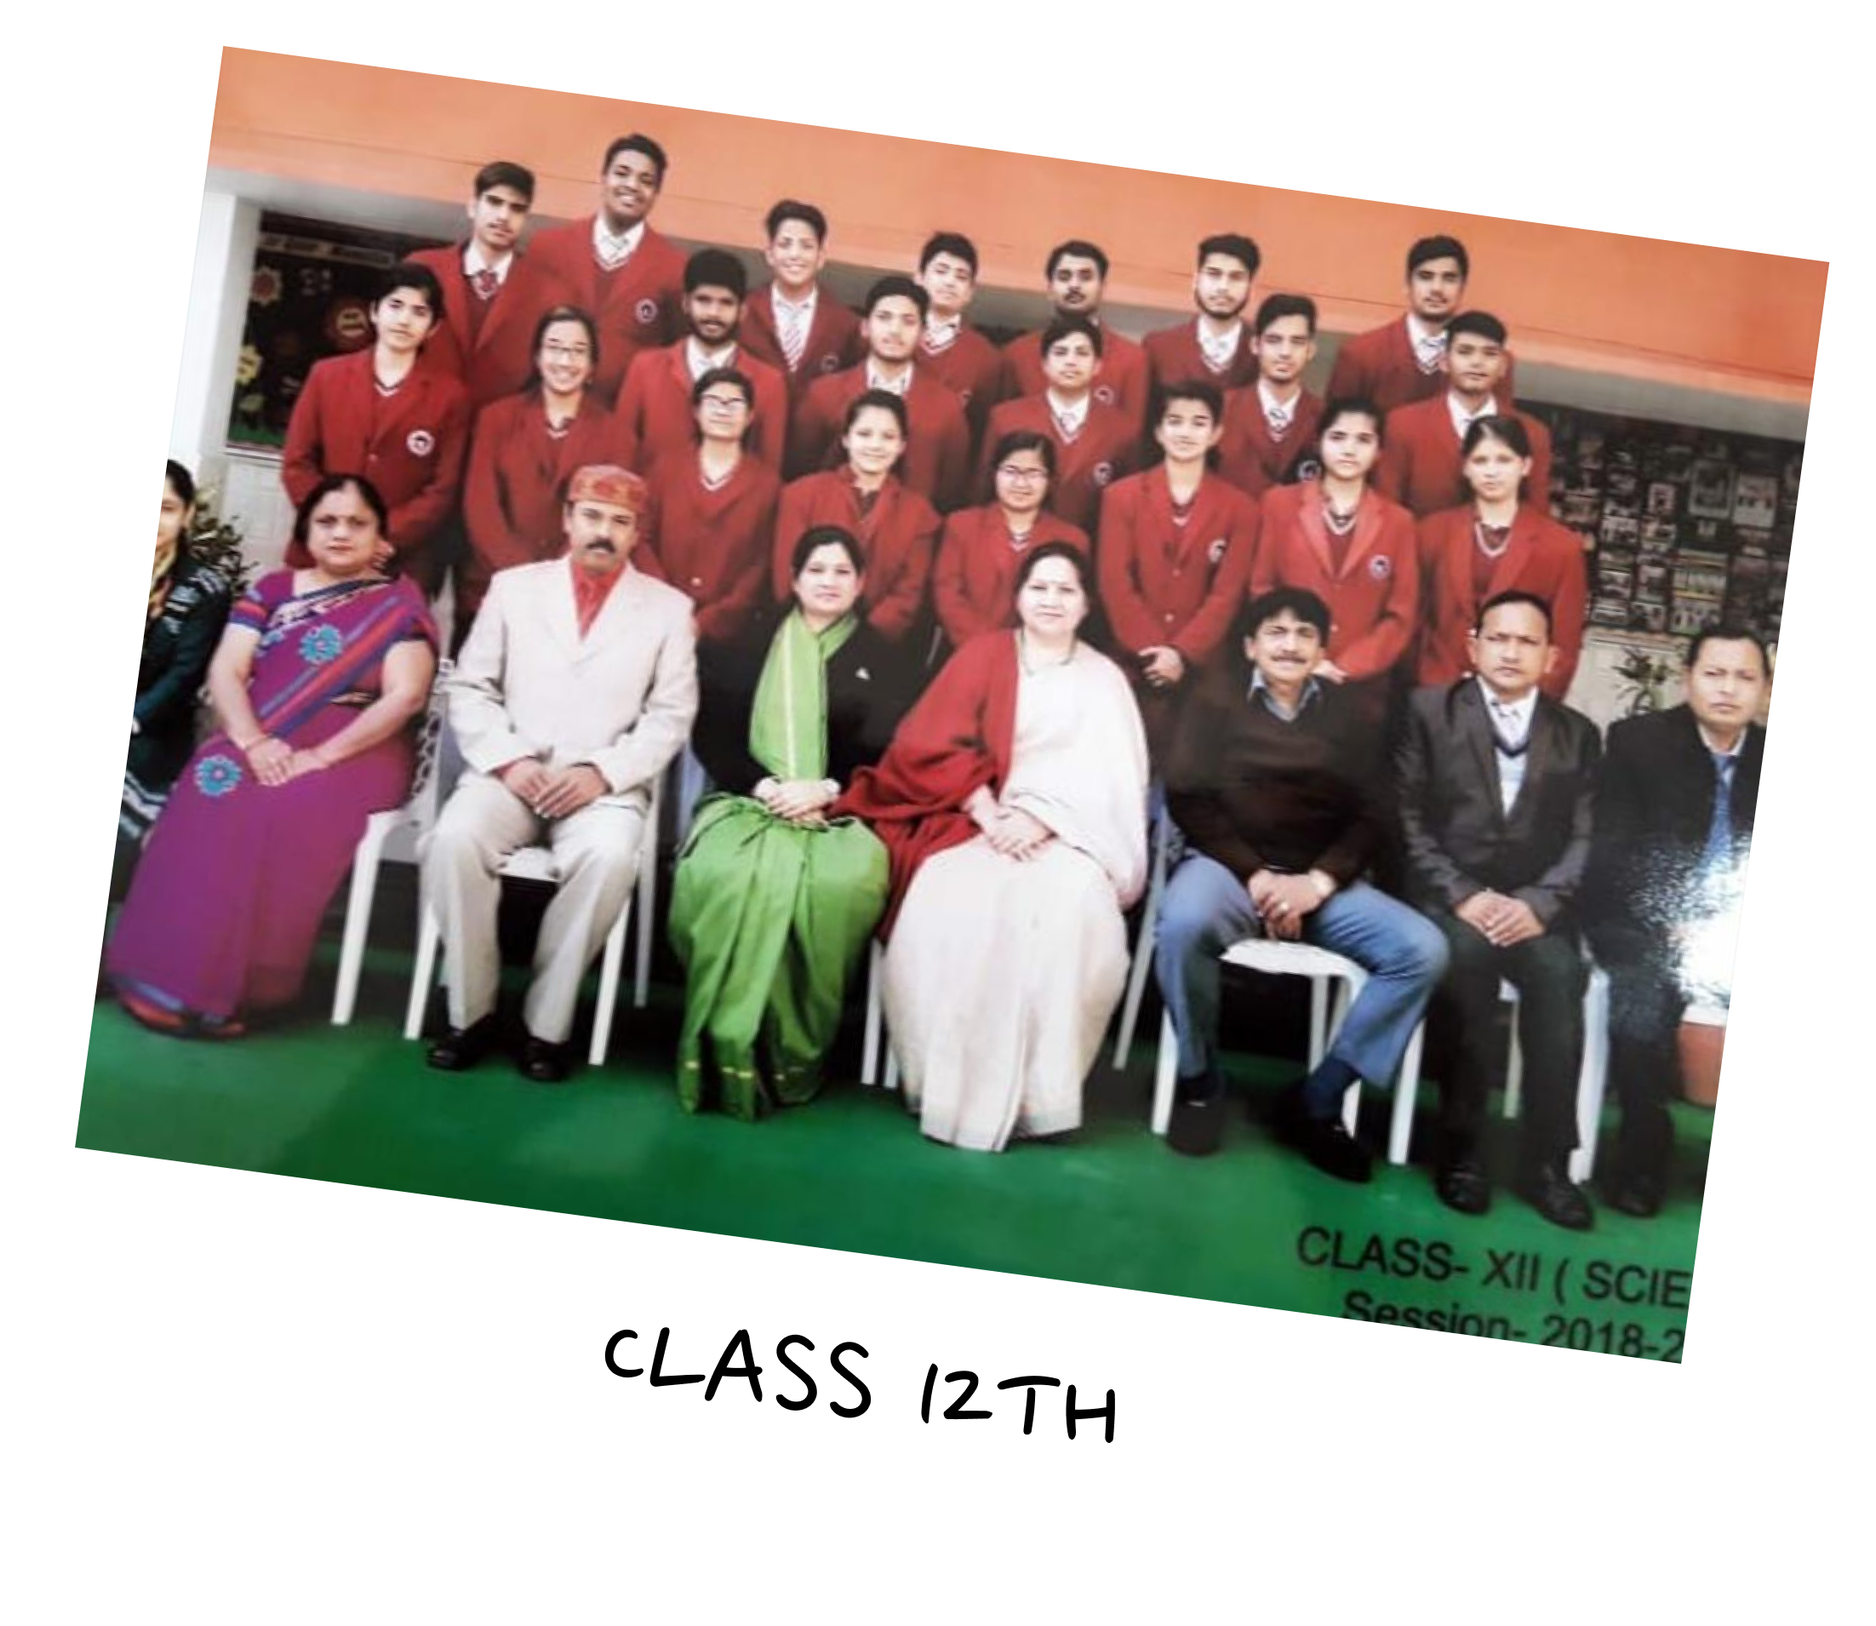
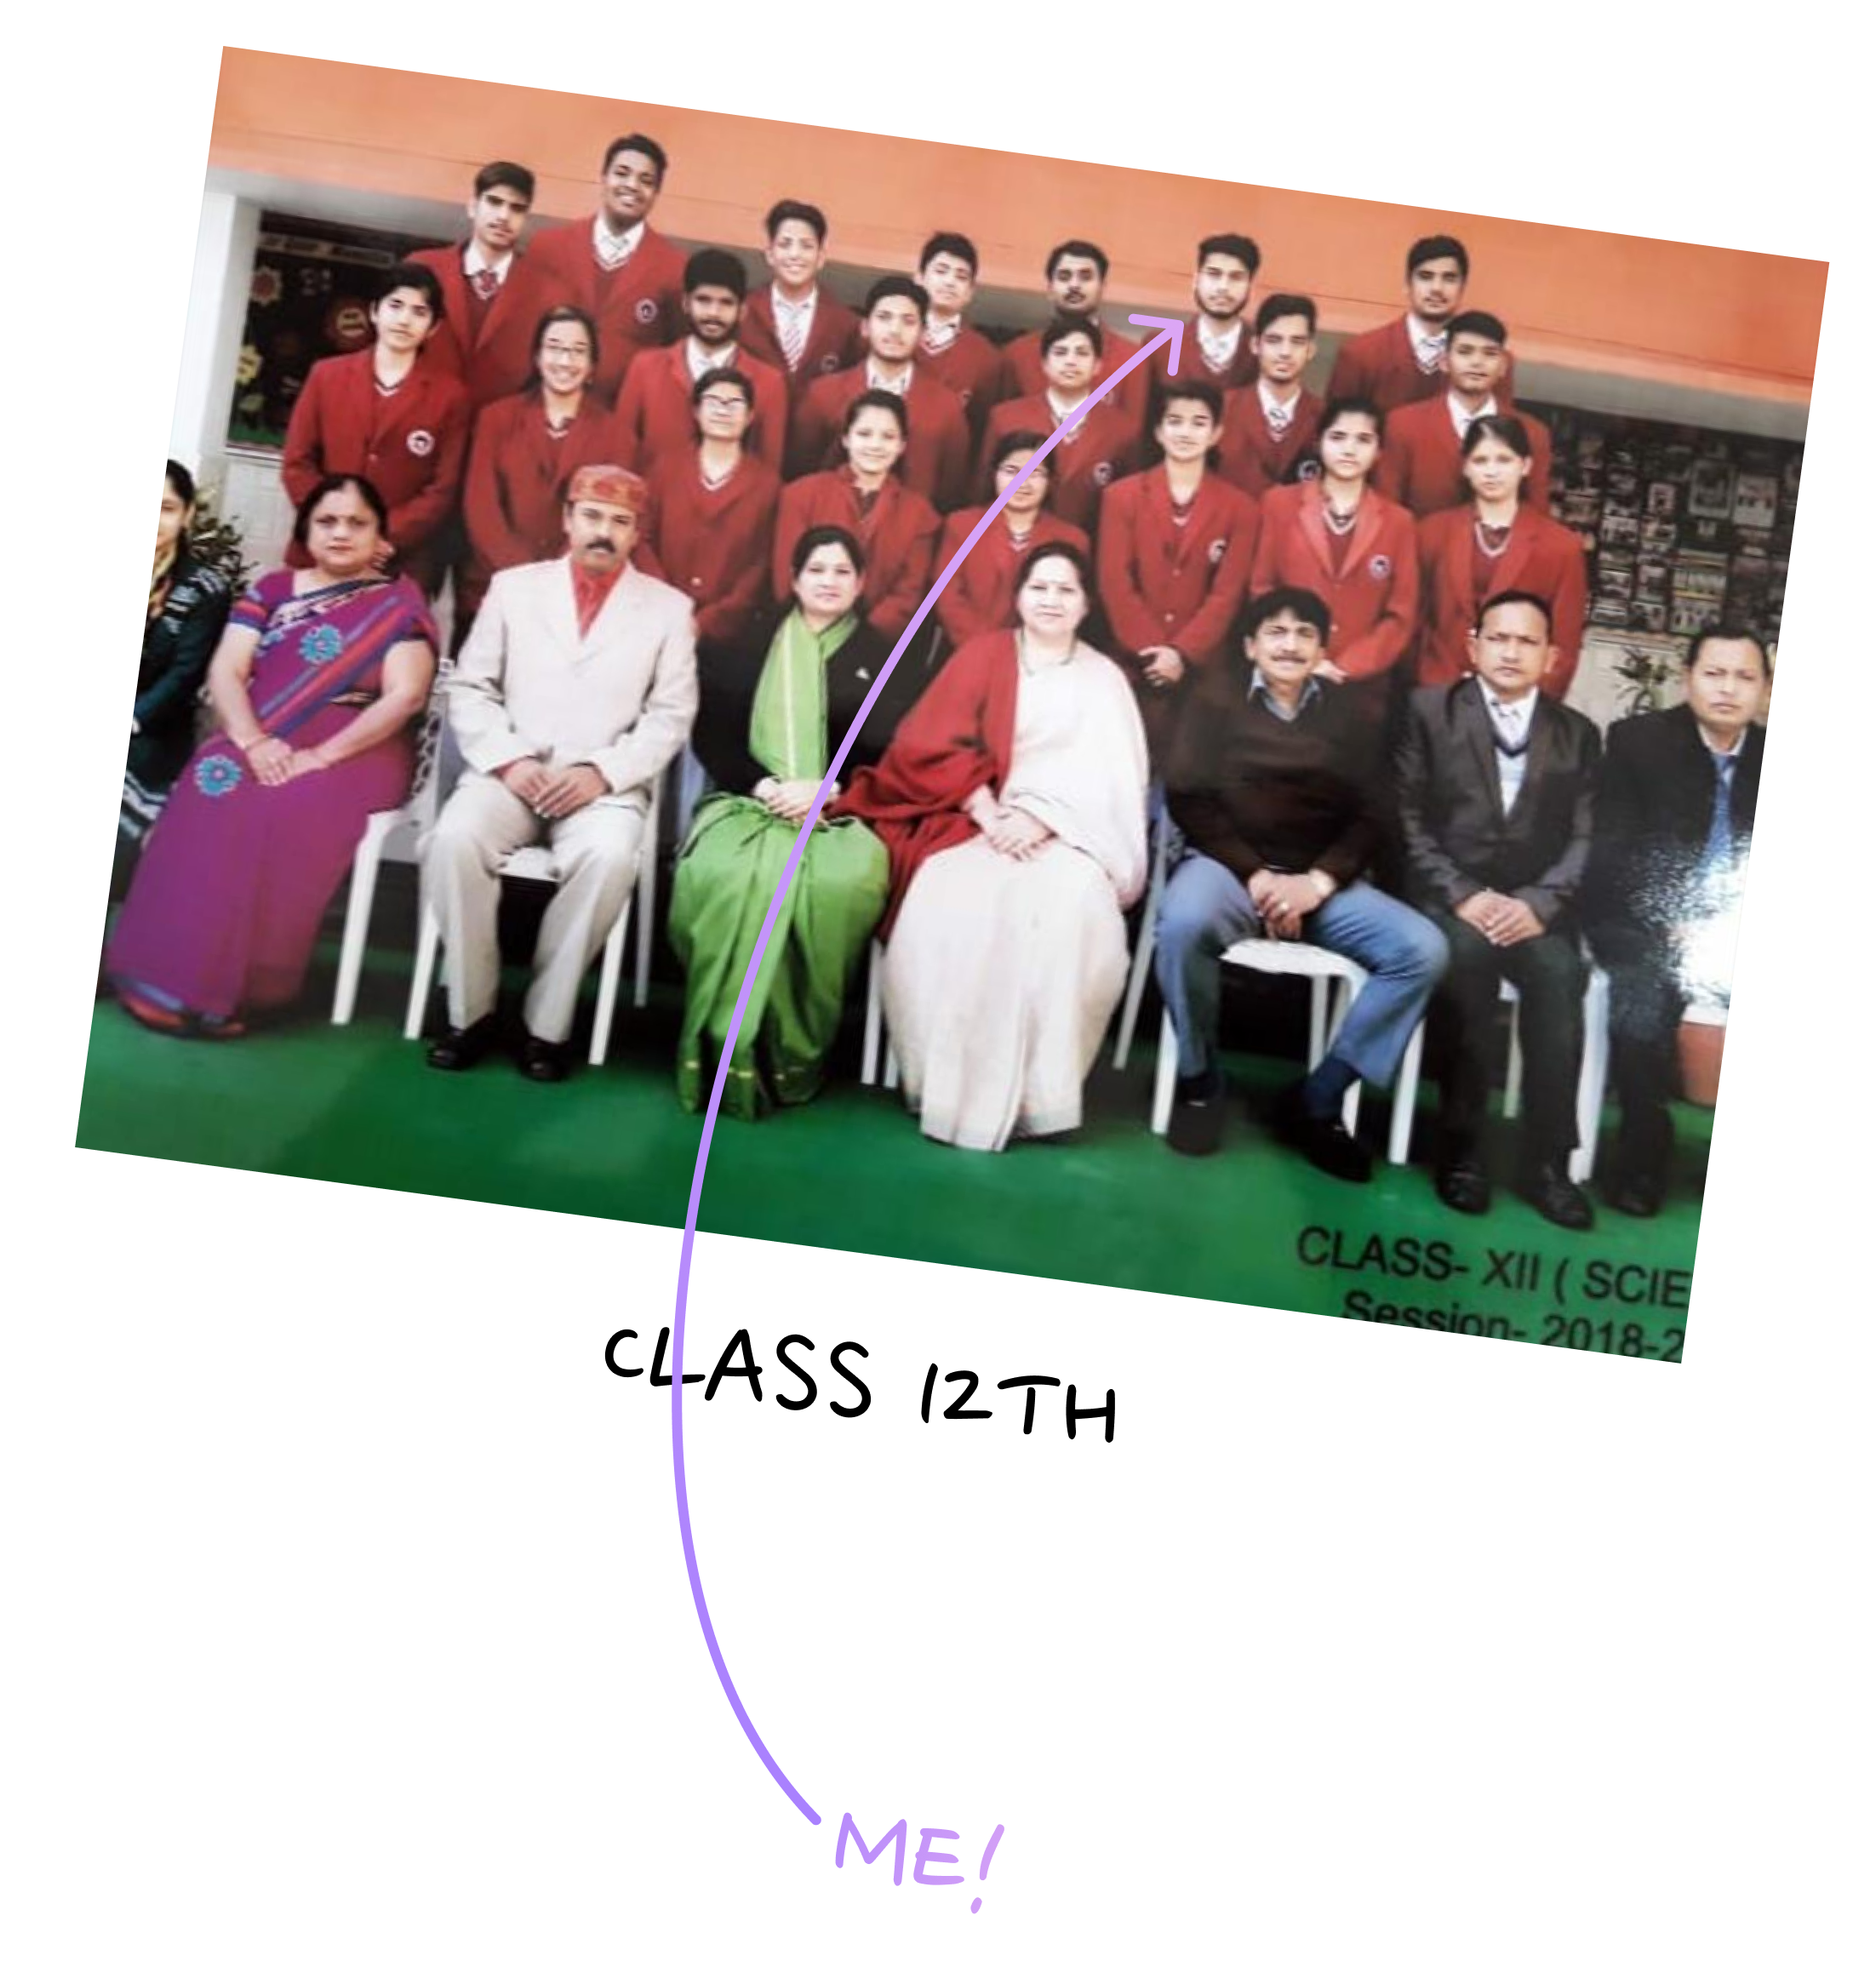
updated Education component to include a new link for the music used in the dance performance. Also added the ScrollbarThemer component to the layout for better scrollbar aesthetics. updated few images in the Education component.

diff --git a/src/components/Education/Education.tsx b/src/components/Education/Education.tsx
@@ -5,7 +5,6 @@ import nurseryToClass3Image from "@/images/nursery-to-class3.png";
 import clas4To10 from "@/images/class-4-10.png";
 import class11to12 from "@/images/class-11-12.png";
 import unviversity from "@/images/unviversity.png";
-import { LottieAnimation } from "../LottieAnimation/LottieAnimation";
 import curvedDownArrowSky from "@/icons/curved-down-arrow-sky.svg";
 
 interface FactBadge {
@@ -29,6 +28,12 @@ const EDUCATION: StepProps[] = [
     image: <Image src={nurseryToClass3Image} alt="Nursery to Class 3" />,
     isReversed: false,
     theme: "sky",
+    links: [
+      {
+        text: "music used in dance performance",
+        url: "https://www.youtube.com/watch?v=9UzvpM3IwwY",
+      },
+    ],
   },
   {
     title: "Class 4 to 10",
@@ -114,6 +119,7 @@ export default function Education() {
           highlights={card.highlights}
           isReversed={card.isReversed}
           theme={card.theme}
+          links={card.links}
         />
       ))}
     </section>
